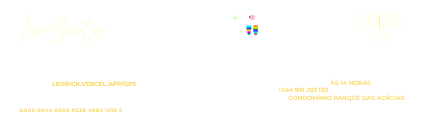
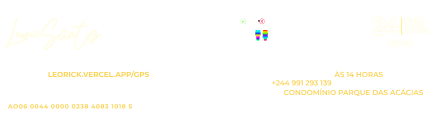
Home done

diff --git a/src/pages/api/image-generator.ts b/src/pages/api/image-generator.ts
@@ -181,6 +181,7 @@ body {
   width: calc(320px - 10px);
   border-bottom: 2px dashed #333;
 }
+
     </style>
   </head>
   <body>
@@ -206,7 +207,7 @@ body {
             </div>
           </div>
           <div class="ticket-event">
-            <img src="https://github.com/omariosouto.png" />
+            <img src="https://github.com/vilarezz/leorickbday/blob/main/public/ticket.png?raw=true" />
           </div>
         </div>
         <div class="ticket-visual_ticket-number-wrapper">
